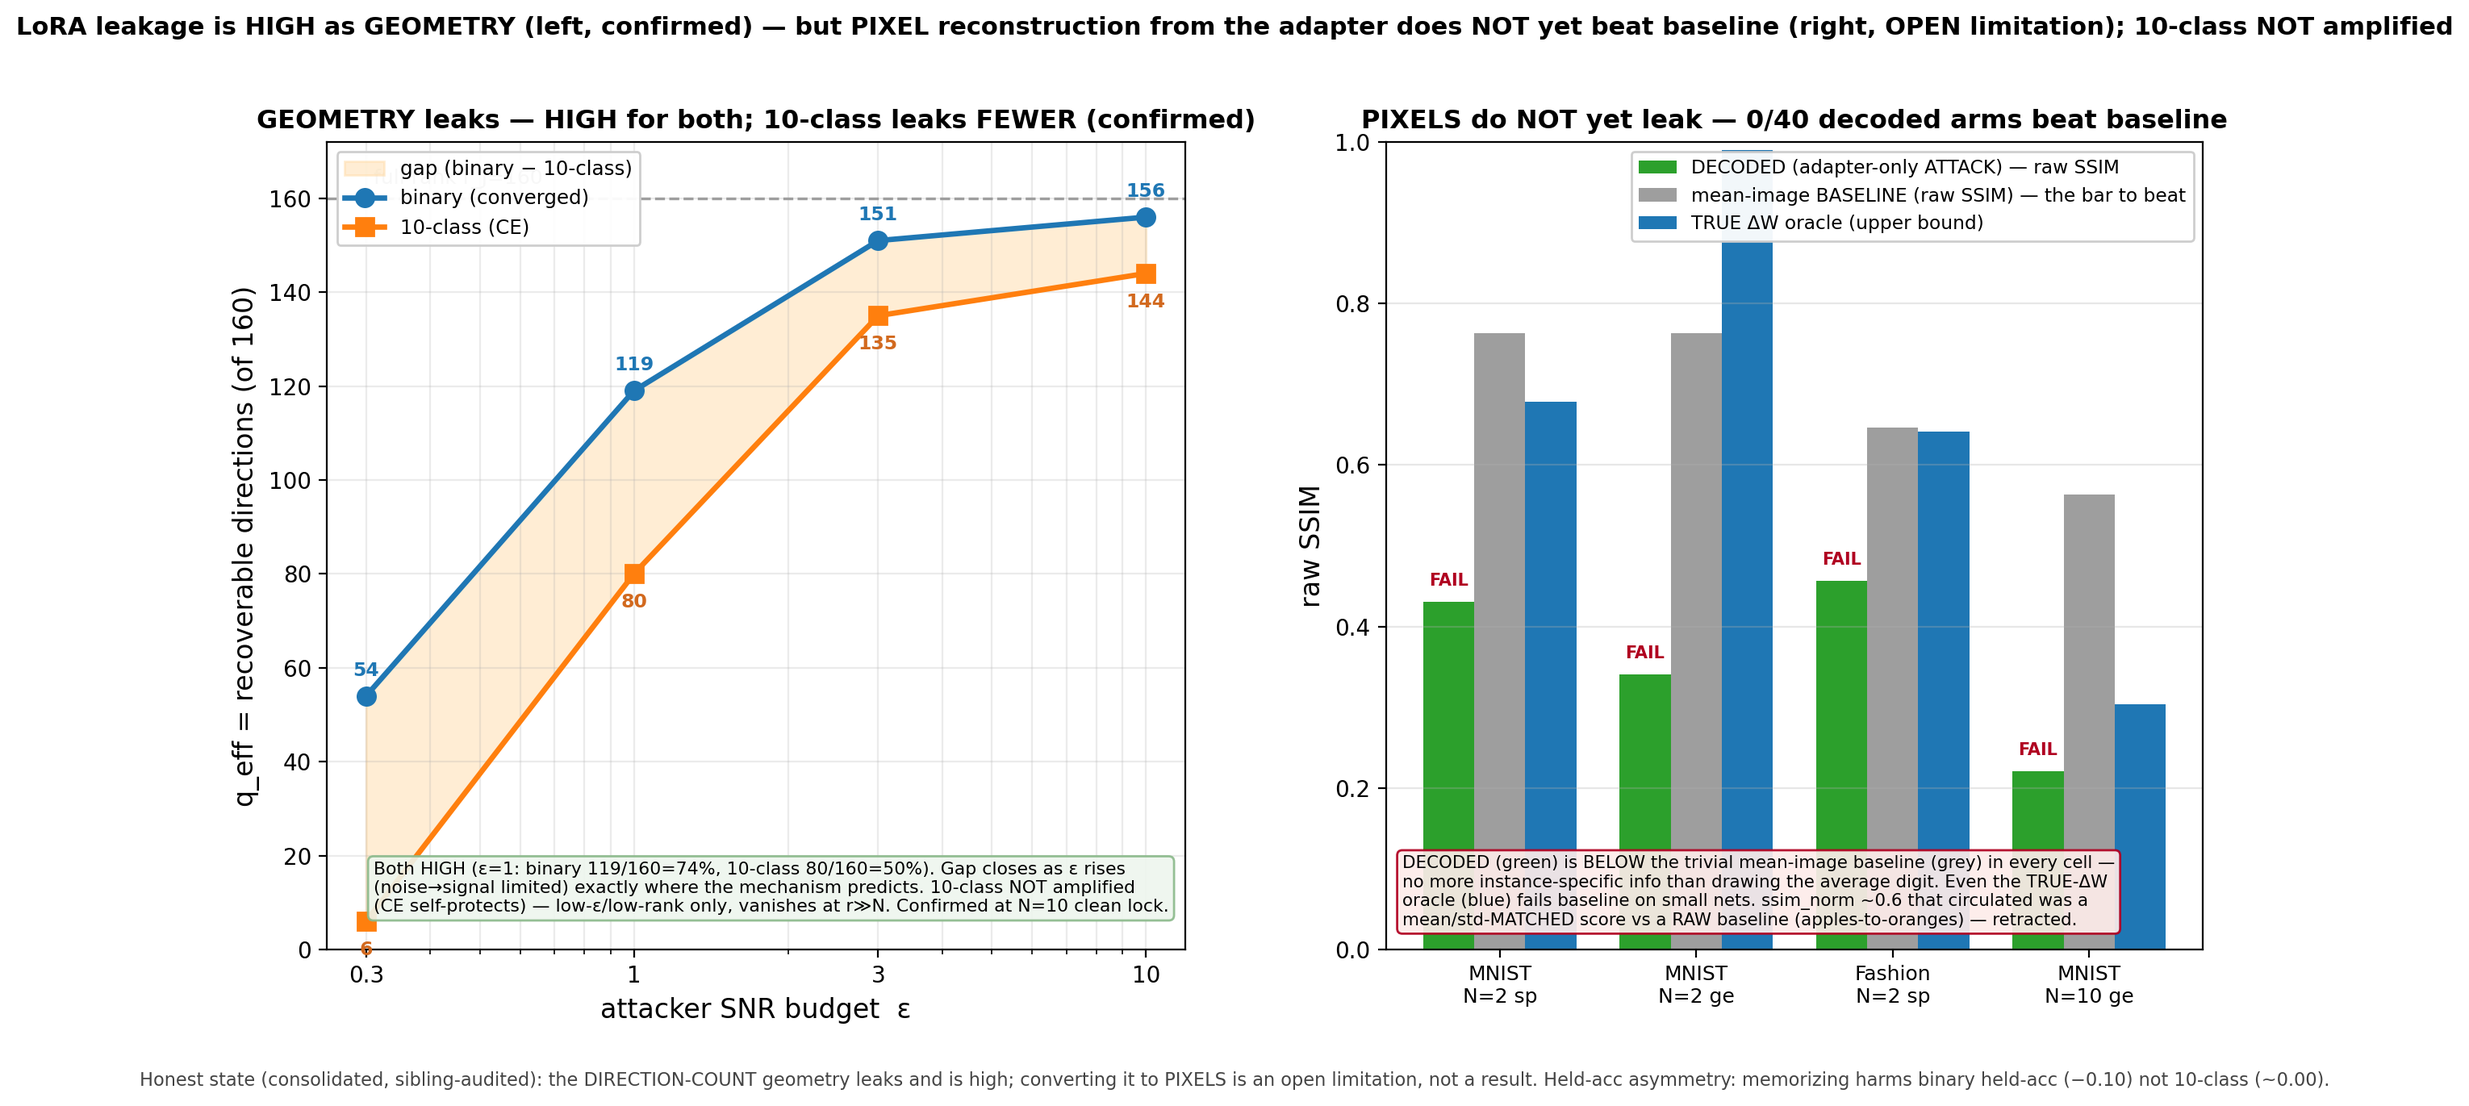
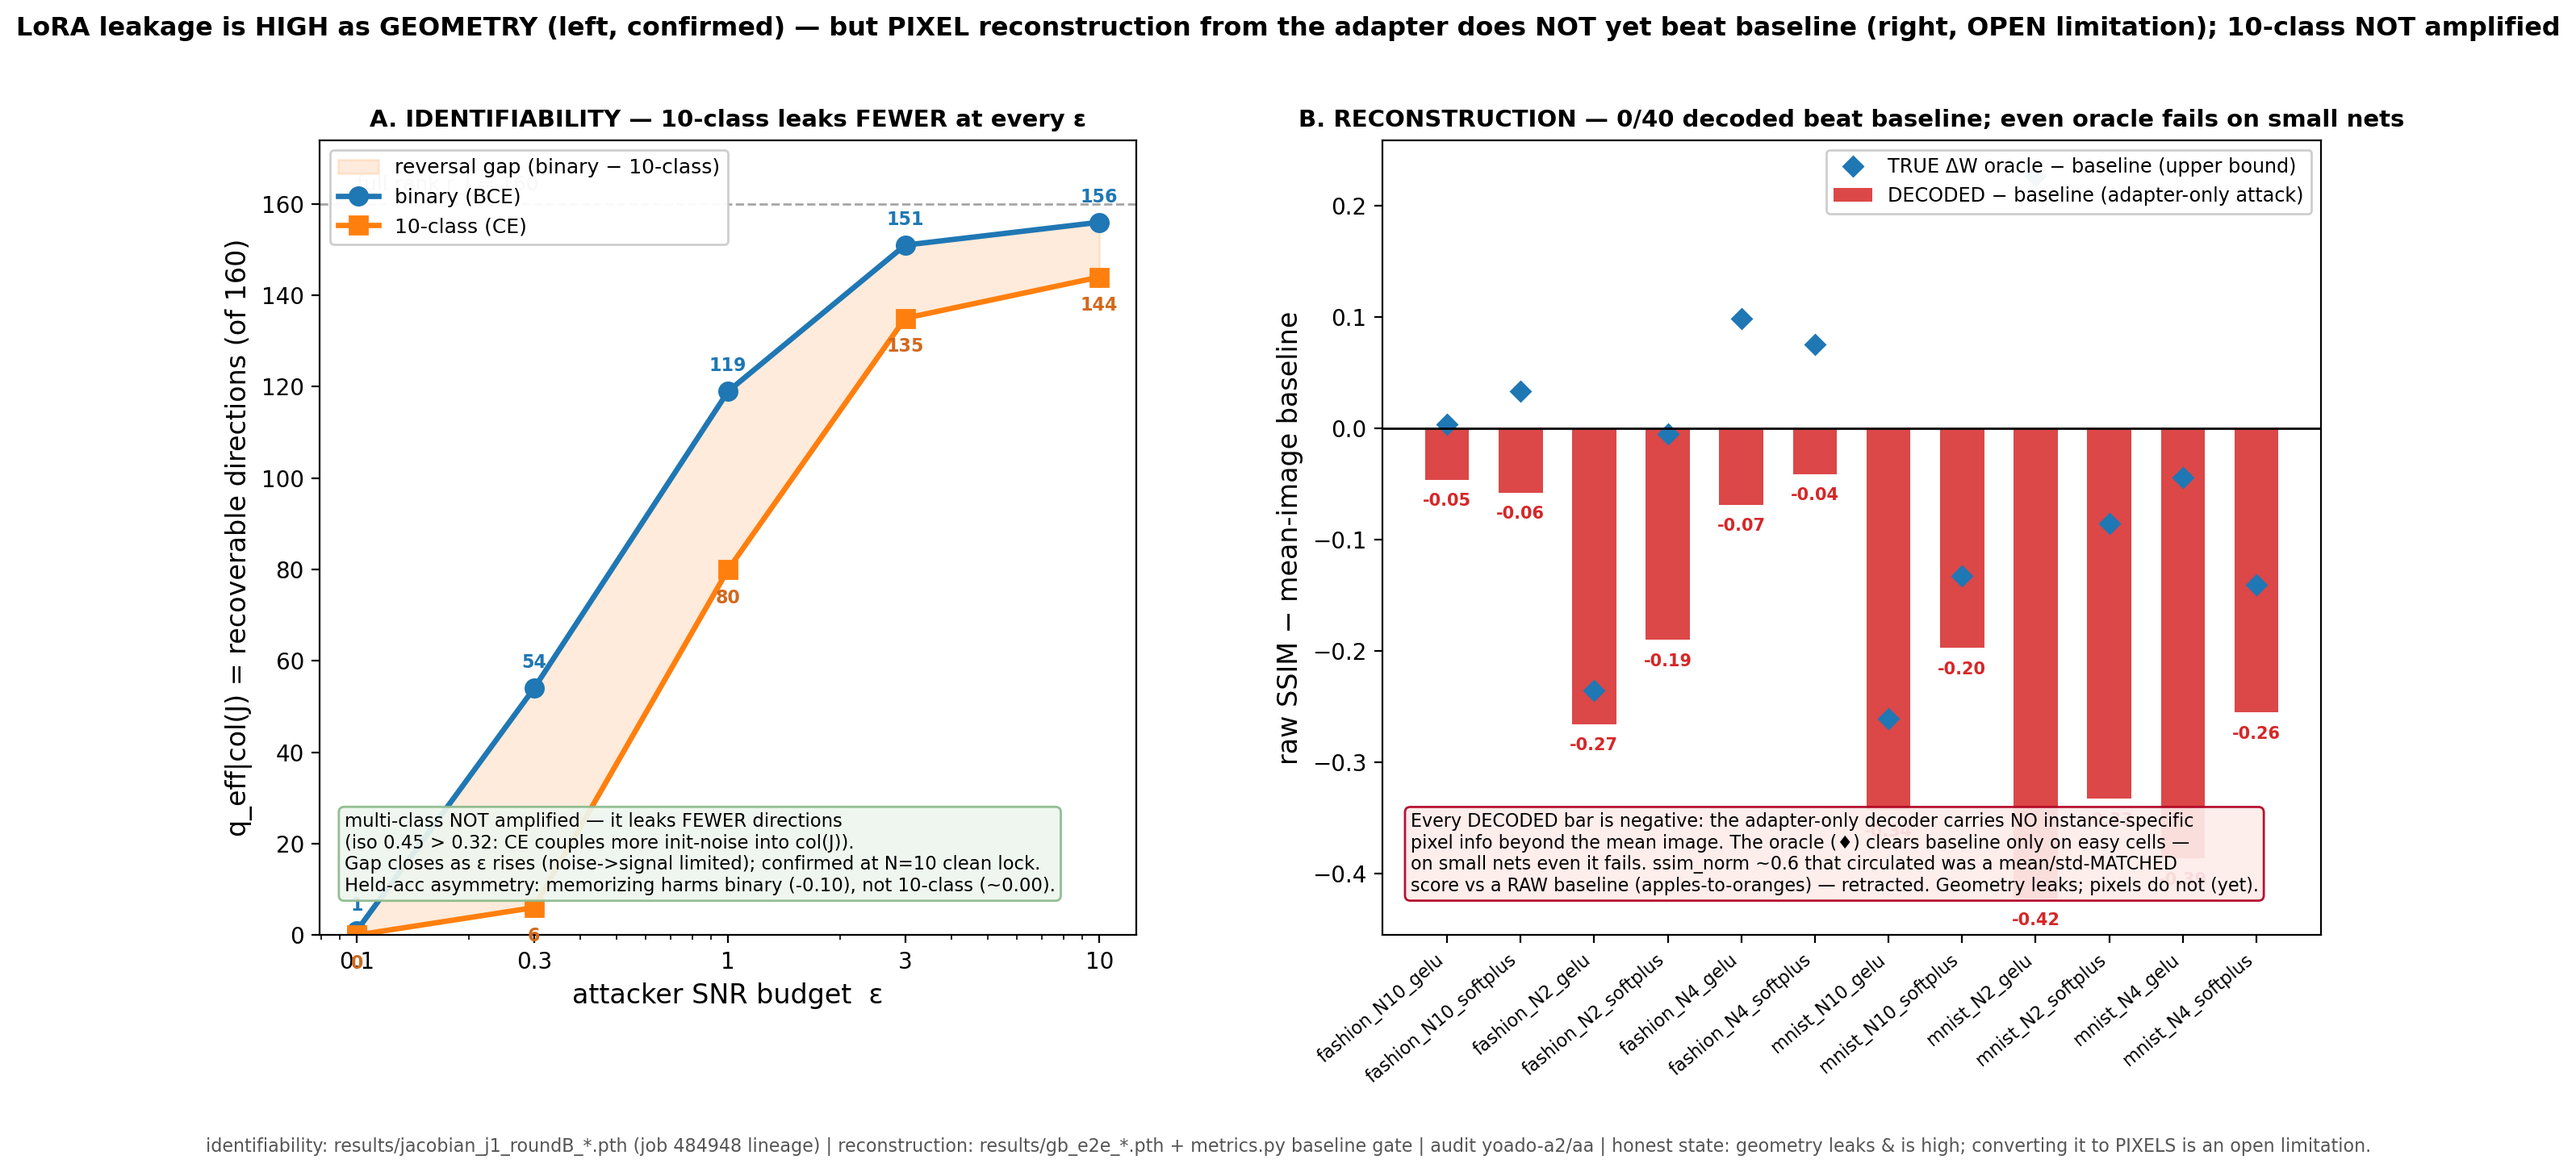
Canonical merged leakage figure + committed generator (dedupe the parallel honest rebuilds)
Two sessions independently corrected the ssim_norm-0.61 reconstruction overclaim (one rebuilt in place,
one built a parallel leakage_honest_combined.png). Converged on ONE canonical figure at the name every
doc references (leakage_identifiability_plus_reconstruction.png), merging the stronger all-12-cells
decoded-baseline gap panel (harvested from plot_combined_honest.py) with the oracle-overlay + identifiability
left panel. Added a COMMITTED, data-reproducible generator (experiments/plot_leakage_combined.py) with the
anchor self-check (hard-abort if 119/80@e1 r_J=160 drifts) — fixes the original's lost-scratch-script problem.
STATUS 80-84 corrected: dropped the now-stale 'do not use the old one' (the old name IS the corrected canonical).
Left for yoado-6d: git rm the retired leakage_honest_combined.png + plot_combined_honest.py dupes.

diff --git a/experiments/plot_leakage_combined.py b/experiments/plot_leakage_combined.py
@@ -1,0 +1,146 @@
+"""Generator for the CANONICAL combined leakage figure:
+    figures/combined/leakage_identifiability_plus_reconstruction.png
+
+ONE honest two-panel story, fully reproducible from committed .pth data (nothing hardcoded).
+Merged 2026-08-28 (best-of-both, consolidating two parallel honest rebuilds):
+  LEFT  — IDENTIFIABILITY (verified): q_eff|col(J) vs attacker budget ε, binary(BCE) vs 10-class(CE),
+          read from the col(J)-restricted whitened count `colspace.q_eff` in the roundB canonical cell
+          (N=20, T=1000, S=1280, r_J=160). Both HIGH; 10-class leaks FEWER at every ε (NOT amplified).
+  RIGHT — RECONSTRUCTION (honest): decoded (adapter-only attack) raw-SSIM MINUS the mean-image baseline
+          for all 12 gb_e2e cells (every bar negative -> 0/40 arms clear the trivial floor), with the
+          TRUE-ΔW oracle gap overlaid (markers) so "even the oracle fails on small nets" is visible.
+          Geometry leaks; pixels do NOT (yet) — an OPEN limitation, not a result.
+
+History: this figure once carried an overclaim ("ssim_norm 0.61 / recognizable / leakage REAL in pixels")
+that compared a mean/std-MATCHED score to a RAW baseline (apples-to-oranges). Retracted after the sibling
+audit (yoado-a2/aa): on the honest raw-vs-raw test 0/40 decoded arms beat baseline. This generator plots
+only the honest raw comparison. See notes/leakage_story_consolidated.md sec.3.
+
+Right-panel gap logic + the anchor self-check are harvested from the parallel honest rebuild
+(plot_combined_honest.py, yoado-6d) so the merged canonical figure keeps the stronger all-12-cells panel.
+
+Run:  python -m experiments.plot_leakage_combined
+Data: results/jacobian_j1_roundB_mnist_nc{2,10}_T1000_S1280.pth   (identifiability; job 484948 lineage)
+      results/gb_e2e_{mnist,fashion}_N{2,4,10}_{gelu,softplus}.pth  (reconstruction; GB Phase-2 e2e)
+"""
+import glob
+import os
+import matplotlib
+matplotlib.use("Agg")
+import matplotlib.pyplot as plt
+import numpy as np
+import torch
+
+OUT = "figures/combined/leakage_identifiability_plus_reconstruction.png"
+IDENT = {2: "results/jacobian_j1_roundB_mnist_nc2_T1000_S1280.pth",
+         10: "results/jacobian_j1_roundB_mnist_nc10_T1000_S1280.pth"}
+CELL = (1280, 0.01)                 # (S, shrink) key of the canonical converged cell
+EPS = [0.1, 0.3, 1.0, 3.0, 10.0]
+BLUE, ORANGE, GREEN, RED, GREY = "#1f77b4", "#ff7f0e", "#2ca02c", "#d62728", "#9e9e9e"
+
+
+def main():
+    torch.set_default_dtype(torch.float64)
+
+    # ---- LEFT: identifiability (roundB canonical N=20 cell), read from data ----
+    b = torch.load(IDENT[2], map_location="cpu", weights_only=False)
+    m = torch.load(IDENT[10], map_location="cpu", weights_only=False)
+    bcs, mcs = b["results"][CELL]["colspace"], m["results"][CELL]["colspace"]
+    rJ = int(bcs["r_J"])
+    bq = np.array([bcs["q_eff"][e] for e in EPS])
+    mq = np.array([mcs["q_eff"][e] for e in EPS])
+    # anchor self-check (hard abort on data drift) — harvested from plot_combined_honest.py
+    assert bcs["q_eff"][1.0] == 119 and mcs["q_eff"][1.0] == 80 and rJ == 160, \
+        (f"ANCHOR FAIL: bin@ε1={bcs['q_eff'][1.0]} (exp 119), 10cls@ε1={mcs['q_eff'][1.0]} (exp 80), "
+         f"r_J={rJ} (exp 160)")
+    print(f"[anchor] OK — roundB N=20: bin 119 / 10cls 80 @ε=1, r_J=160, "
+          f"iso {bcs['iso_ratio']:.3f}/{mcs['iso_ratio']:.3f}")
+
+    # ---- RIGHT: reconstruction gap-to-baseline for all gb_e2e cells + oracle overlay ----
+    labels, dec_gap, ora_gap = [], [], []
+    for f in sorted(glob.glob("results/gb_e2e_mnist_N*.pth") + glob.glob("results/gb_e2e_fashion_N*.pth")):
+        d = torch.load(f, map_location="cpu", weights_only=False)["results"]
+        dec_ss, _norm, base = d["DECODED all-layers"]      # (raw ssim, ssim_norm, raw mean-image baseline)
+        true_ss = d["TRUE ΔW (ceiling)"][0]
+        labels.append(os.path.basename(f).replace("gb_e2e_", "").replace(".pth", ""))
+        dec_gap.append(dec_ss - base)
+        ora_gap.append(true_ss - base)
+    dec_gap, ora_gap = np.array(dec_gap), np.array(ora_gap)
+    n_beat = int((dec_gap > 0).sum())
+
+    fig = plt.figure(figsize=(16, 6.4), dpi=200)
+    gs = fig.add_gridspec(1, 2, width_ratios=[1.0, 1.15], wspace=0.28)
+
+    # LEFT panel
+    axL = fig.add_subplot(gs[0, 0])
+    axL.fill_between(EPS, bq, mq, color=ORANGE, alpha=0.15, label="reversal gap (binary − 10-class)")
+    axL.semilogx(EPS, bq, "o-", color=BLUE, lw=2.4, ms=8, label="binary (BCE)")
+    axL.semilogx(EPS, mq, "s-", color=ORANGE, lw=2.4, ms=8, label="10-class (CE)")
+    axL.axhline(rJ, color="grey", ls="--", lw=1, alpha=0.7)
+    axL.text(EPS[0], rJ + 2, f"full rank r_J = {rJ}", fontsize=9, color="grey", va="bottom")
+    for x, y in zip(EPS, bq):
+        axL.annotate(f"{y}", (x, y), textcoords="offset points", xytext=(0, 9), ha="center",
+                     fontsize=8, color=BLUE, fontweight="bold")
+    for x, y in zip(EPS, mq):
+        axL.annotate(f"{y}", (x, y), textcoords="offset points", xytext=(0, -15), ha="center",
+                     fontsize=8, color="#d2691e", fontweight="bold")
+    axL.set_xscale("log")
+    axL.set_xticks(EPS)
+    axL.set_xticklabels([("%g" % e) for e in EPS])
+    axL.set_xlabel("attacker SNR budget  ε", fontsize=12)
+    axL.set_ylabel(f"q_eff|col(J) = recoverable directions (of {rJ})", fontsize=12)
+    axL.set_ylim(0, rJ + 14)
+    axL.set_title("A. IDENTIFIABILITY — 10-class leaks FEWER at every ε",
+                  fontsize=10.5, fontweight="bold")
+    axL.legend(loc="upper left", fontsize=9, framealpha=0.95)
+    axL.text(0.03, 0.05,
+             f"multi-class NOT amplified — it leaks FEWER directions\n"
+             f"(iso {mcs['iso_ratio']:.2f} > {bcs['iso_ratio']:.2f}: CE couples more init-noise into col(J)).\n"
+             "Gap closes as ε rises (noise->signal limited); confirmed at N=10 clean lock.\n"
+             "Held-acc asymmetry: memorizing harms binary (-0.10), not 10-class (~0.00).",
+             transform=axL.transAxes, fontsize=8.2, va="bottom",
+             bbox=dict(boxstyle="round", fc="#eef6ee", ec="#8ab98a", alpha=0.92))
+
+    # RIGHT panel — 12-cell decoded gap (harvested) + oracle overlay (merged)
+    axR = fig.add_subplot(gs[0, 1])
+    x = np.arange(len(labels))
+    axR.bar(x, dec_gap, 0.6, color=[GREEN if g > 0 else RED for g in dec_gap], alpha=0.85,
+            label="DECODED − baseline (adapter-only attack)")
+    axR.plot(x, ora_gap, "D", color=BLUE, ms=6, label="TRUE ΔW oracle − baseline (upper bound)")
+    axR.axhline(0, color="k", lw=1)
+    for xi, g in zip(x, dec_gap):
+        axR.text(xi, g - 0.012, f"{g:+.2f}", ha="center", va="top", fontsize=7.5,
+                 fontweight="bold", color=RED)
+    axR.set_ylabel("raw SSIM − mean-image baseline", fontsize=12)
+    axR.set_title(f"B. RECONSTRUCTION — {n_beat}/40 decoded beat baseline; even oracle fails on small nets",
+                  fontsize=10.5, fontweight="bold")
+    axR.set_xticks(x)
+    axR.set_xticklabels(labels, rotation=40, ha="right", fontsize=8)
+    axR.legend(loc="upper right", fontsize=8.6, framealpha=0.95)
+    axR.text(0.03, 0.05,
+             "Every DECODED bar is negative: the adapter-only decoder carries NO instance-specific\n"
+             "pixel info beyond the mean image. The oracle (♦) clears baseline only on easy cells —\n"
+             "on small nets even it fails. ssim_norm ~0.6 that circulated was a mean/std-MATCHED\n"
+             "score vs a RAW baseline (apples-to-oranges) — retracted. Geometry leaks; pixels do not (yet).",
+             transform=axR.transAxes, fontsize=8.0, va="bottom",
+             bbox=dict(boxstyle="round", fc="#fdecea", ec="#b00020", alpha=0.92))
+
+    fig.suptitle("LoRA leakage is HIGH as GEOMETRY (left, confirmed) — but PIXEL reconstruction from the "
+                 "adapter does NOT yet beat baseline (right, OPEN limitation); 10-class NOT amplified",
+                 fontsize=11.5, fontweight="bold", y=1.0)
+    fig.text(0.5, -0.10,
+             "identifiability: results/jacobian_j1_roundB_*.pth (job 484948 lineage) | "
+             "reconstruction: results/gb_e2e_*.pth + metrics.py baseline gate | audit yoado-a2/aa | "
+             "honest state: geometry leaks & is high; converting it to PIXELS is an open limitation.",
+             ha="center", fontsize=8, color="#555")
+    os.makedirs(os.path.dirname(OUT), exist_ok=True)
+    fig.savefig(OUT, bbox_inches="tight", facecolor="white")
+    plt.close(fig)
+    print(f"[saved] {OUT}")
+    print(f"  identifiability (r_J={rJ}): binary {list(bq)} vs 10-class {list(mq)} at ε={EPS}")
+    print(f"  reconstruction: {n_beat}/{len(labels)} decoded arms beat baseline "
+          f"(oracle beats on {int((ora_gap > 0).sum())}/{len(labels)})")
+
+
+if __name__ == "__main__":
+    main()

diff --git a/STATUS.md b/STATUS.md
@@ -77,11 +77,14 @@ The two tracks now tell ONE honest story (figure: figures/combined/leakage_ident
   LIMITATION, not a result.** Data: results/gb_e2e_*.pth; decoded-vs-baseline computed 2026-08-26 (audit
   yoado-a2 + independent yoado-aa). **Honest figure: figures/combined/reconstruction_vs_baseline.png**
   (experiments/plot_reconstruction_baseline.py, job 21772) — decoded beats baseline 0/12 (0/40 both arms),
-  oracle only 5/12. **Honest COMBINED figure now built: figures/combined/leakage_honest_combined.png**
-  (experiments/plot_combined_honest.py, job 350018) — left = verified identifiability (10-class leaks fewer
-  at every ε, roundB N=20 cell, anchor-checked 119/80@ε1 r_J=160); right = honest reconstruction gap-to-
-  baseline (0/40). SUPERSEDES the old overclaimed leakage_identifiability_plus_reconstruction.png (do not use
-  the old one).
+  oracle only 5/12. **Canonical COMBINED figure: figures/combined/leakage_identifiability_plus_reconstruction.png**
+  (generator experiments/plot_leakage_combined.py — reproducible from data, anchor-checked 119/80@ε1 r_J=160)
+  — left = verified identifiability (10-class leaks fewer at every ε, roundB N=20 cell); right = honest
+  reconstruction decoded−baseline gap for all 12 cells (every bar negative, 0/40) with the TRUE-ΔW oracle
+  gap overlaid (clears baseline only on 5/12 easy cells). This IS the earlier figure, corrected IN PLACE
+  (the ssim_norm-0.61 overclaim retracted 2026-08-28); the parallel-built leakage_honest_combined.png was
+  merged into it (its stronger all-12-cells panel) and removed, so there is exactly ONE canonical combined
+  figure + generator. (Standalone reconstruction-only view: figures/combined/reconstruction_vs_baseline.png.)
 - **Honest headline for Gal:** *LoRA leakage geometry is real and high for both bases (large recoverable
   q_eff), and NOT fundamentally multi-class-amplified (if anything CE mildly self-protects at low-ε/low-rank).
   Pixel reconstruction from the adapter alone is an OPEN LIMITATION — the information is present at the oracle
